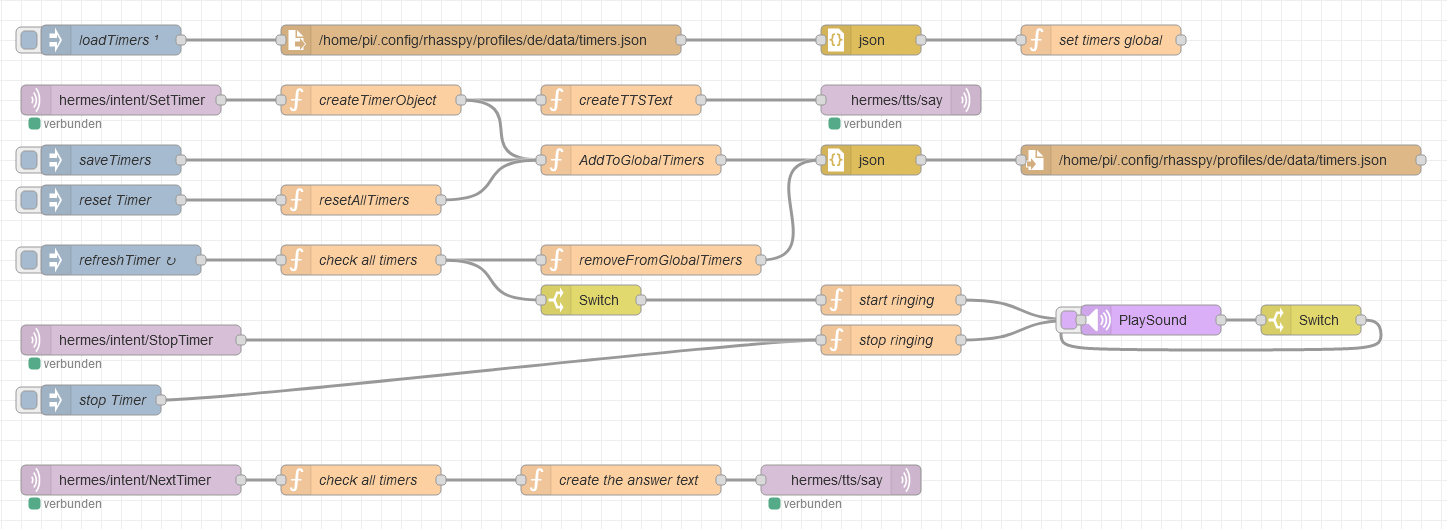
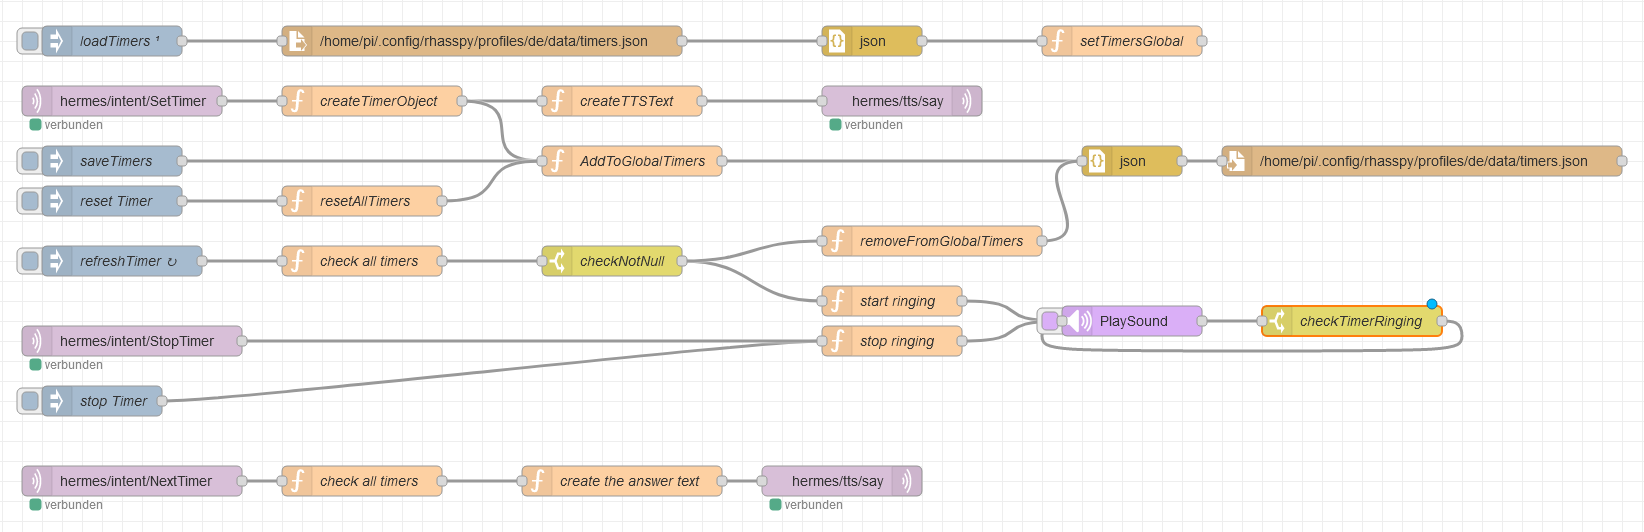
add timerJS description and timer.json

diff --git a/docs/pages/results/timer/timerJS.md b/docs/pages/results/timer/timerJS.md
@@ -1,7 +1,7 @@
 ---
 layout: default
-title: Timer with JS
-parent: Timer
+title: Alarm with JS
+parent: Alarm
 grand_parent: Results
 ---
 
@@ -14,4 +14,256 @@ grand_parent: Results
 {:toc}
 </details>
 
+# Timer with JS
+We created a timer feature in NodeRed with JS Functions. Here is a small overview:
+
 ![Timer with JavaScript](/assets/timerJSFull.png)
+
+## Requirements
+- `PlaySound` node from [node-red-contrib-play-sound](https://flows.nodered.org/node/node-red-contrib-play-sound)
+
+## Features
+- It can load and save timers from a file. So when the raspberry turns off and on, the alarms are will be loaded again.
+- Set a timer via voice you can set hours, minutes and seconds.
+- You can clear all timers.
+- Stop a timer via voice
+- And you can ask when the next timer is set answer via TTS.
+- 1 second refresh time.
+- TTS tells you what time the timer was set
+
+## Savefile
+The timers are saved in the profile folder: 
+```
+/home/pi/.config/rhasspy/profiles/de/data/timers.json
+```
+
+## Timer sound
+The timer sound is setup to this file:
+```
+/home/pi/.config/rhasspy/profiles/de/data/alarm.mp3
+```
+You can edit it or set another path. Important is that you use an absolut path to link the mp3 file. Otherwise NodeRed looks in its own workfolder.
+
+## Description
+I start to describe the flow from top to bottom. so we start with the loading the alarms from a file.
+
+### Load Timers
+![Load Timers](/assets/timerJSLoad.png)
+Loading all timers from a file will be triggered at the start of NodeRed. The injector `loadTimers` triggers the `file in` node.
+The `file in` node reads the whole file and hands it to the json node, which converts the JSON data format to a JavaScript(JS) object. 
+This JS object goes to the function `setTimersGlobal`. This function saves all timers in a global array in NodeRed, so we can access 
+them from everywhere.
+
+### Intent `SetTimer`
+![Set new timer](/assets/timerJSSet.png)
+When an `SetTimer` intent enters the mqtt-Server, the function `createTimerObject` will be triggered.
+This function extract the hour, minutes and seconds from the message and create a alarm object in this format:
+```
+{timerSet : timerSetAt, timerAt : timerAt, timerIn: timerIn}
+```
+Here is the sourcecode of this function:
+```javascript
+var seconds = 0;
+var minutes = 0;
+var hours = 0;
+
+for(var i = 0; i < msg.payload.slots.length; i++)
+{
+    if(msg.payload.slots[i].slotName === "seconds")
+        seconds = msg.payload.slots[i].value.value;
+    if(msg.payload.slots[i].slotName === "minutes")
+        minutes = msg.payload.slots[i].value.value;
+    if(msg.payload.slots[i].slotName === "hours")
+        hours = msg.payload.slots[i].value.value;
+}
+var timerSetAt = new Date();
+var timerAt = new Date(timerSetAt);
+timerAt.setHours(timerAt.getHours() + hours);
+timerAt.setMinutes(timerAt.getMinutes() + minutes);
+timerAt.setSeconds(timerAt.getSeconds() + seconds);
+
+var timerIn = new Date(0);
+timerIn.setHours(timerIn.getHours() + hours);
+timerIn.setMinutes(timerIn.getMinutes() + minutes);
+timerIn.setSeconds(timerIn.getSeconds() + seconds);
+
+msg.payload = {timerSet : timerSetAt, timerAt : timerAt, timerIn: timerIn};
+return msg;
+```
+
+This timer object goes to two functions, to `createTTSText` and to `AddToGlobalTimers`.
+`createTTSText` creates the message the TTS should say. here is the code:
+```javascript
+var timerIn = new Date(msg.payload.timerIn);
+var hours = timerIn.getHours() -1 ;
+var minutes = timerIn.getMinutes();
+var seconds = timerIn.getSeconds();
+
+var text = "Es wurde ein Teimer in ";
+if(hours !== 0)
+    text += hours + " Stunden ";
+if(minutes !== 0)
+    text += minutes + " Minuten ";
+if(seconds !== 0)
+    text += seconds + " Sekunden ";
+    
+text += "gesetzt.";
+msg.payload = {text: text, siteId: "default", id: "testID"};
+
+return msg;
+```
+After this function the TTS says the text in `msg.payload`.
+
+The function `AddToGlobalTimers` adds the new tomer to the global list of timers:
+```javascript
+var timers = global.get("timers");
+if(timers === undefined)
+    timers = [];
+
+if(msg.payload != null)
+{
+    timers.push(msg.payload);
+    global.set("timers", timers);
+}
+
+msg.payload = timers;
+return msg;
+```
+After this function the timer list will be saved with the node `file` to the file `/home/pi/.config/rhasspy/profiles/de/data/timers.json`.
+
+### Injection `resetTimers`
+![Reset all timers](/assets/timerJSReset.png)
+This part is for deleting all timers from the global list and from the savefile.
+After you click on `resetTimers` the functions `resetAllTimers` starts.
+This function sets the global `timers` array to an empty array:
+```javascript
+global.set("timers", []);
+msg.payload = null;
+return msg;
+```
+After this the timers will be saved in the savefile again.
+
+### Injection `refreshTimers`
+![Check timers](/assets/timerJSCheck.png)
+The injection `refreshTimers` triggers the function `checkAllTimers` every second.
+`checkAllTimers` goes through every timer in the global timer list and checks if it's time to ring.
+When a timer is out of time it will be add to the `readyTimers` array, which will be the output for the function. 
+If `readyTimers` is empty the function will return `null`. 
+
+Here is the Code:
+```javascript
+var dateNow = new Date();
+var readyTimers = [];
+
+for(var i = 0; i < msg.payload.timers.length; i++)
+{
+    var thenTime = new Date(msg.payload.timers[i].timerAt);
+    if(dateNow.getTime() >= thenTime.getTime())
+    {
+        readyTimers.push(msg.payload.timers[i]);
+    }
+}
+if(readyTimers.length > 0)
+    msg.payload = readyTimers;
+else
+    msg.payload = null;
+return msg;
+```
+
+After this function a switch checks if the message is null or not. If it's null it ignores the message, 
+and if not the message goes to two functions. The function `removeFromGlobalTimers` removes the timer from the 
+global array and saves the file.
+```javascript
+var timers = global.get("timers");
+if(timers === undefined)
+    timers = [];
+
+if(msg.payload != null)
+{
+    for(var i = 0; i < msg.payload.length; i++)
+    {
+        for( var j = 0; j < timers.length; j++) 
+        { 
+            if (timers[j].timerSet.toString() == msg.payload[i].timerSet.toString() && timers[j].timerAt.toString() == msg.payload[i].timerAt.toString())
+            {
+                timers.splice(j, 1); 
+            }
+        }
+    }
+    global.set("timers", timers);
+}
+
+msg.payload = timers;
+return msg;
+```
+
+And the message from `checkAllTimers` also goes to the function `startRinging`. In it the message will be set to `"start"` and the 
+global variable `timerRinging` is set to 1:
+```javascript
+global.set("timerRinging", 1);
+msg.payload = "start";
+return msg;
+```
+
+The `PlaySound` node will now play the file on this path: 
+```
+/home/pi/.config/rhasspy/profiles/de/data/alarm.mp3
+```
+When the file ends the switch `checkTimerRinging` checks if the global variable `timerRinging` is `0`.
+If not the `PlaySound` node starts playing again.
+
+### Intent `StopTimer`
+![Stop an timer](/assets/timerJSStop.png)
+The Intent `StopTimerClock` stops the ringing of an alarm. It runs the function `stopRinging`. 
+This sets the global variable `timerRinging` to `0` and sets the payload to `"stop"`.
+This message goes to the `PlaySound` node, it should stop playing the file. 
+
+Here is the code:
+```javascript
+global.set("timerRinging", 0);
+msg.payload = "stop";
+return msg;
+```
+
+### Intent `NextTimer`
+![Reset all alarms](/assets/timerJSNext.png)
+The Intent `NextTimer` picks the next due timer and creates a text the TTS should say to inform the user when the next timer rings.
+
+The Intent first triggers the function `checkAllTimers`. This function goes through all timers listed in the global `timers` variable
+and put the next due timer in `msg.payload`.
+```javascript
+var timers = global.get("timers");
+var nextDate = new Date(new Date().getFullYear()+2000, 0, 0, 0, 0, 0);
+
+for(var i = 0; i < timers.length; i++)
+{
+    var thenTime = new Date(timers[i].timerAt);
+    if(nextDate.getTime() > thenTime.getTime())
+    {
+        nextDate = new Date(thenTime);
+    }
+}
+msg.payload = nextDate;
+return msg;
+```
+
+The function `createAnswerText` is the next function in the flow. It converts the datetime from the alarm in a sentence a human can understand.
+```javascript
+var currentDate = new Date();
+
+var timerDate = new Date(msg.payload);
+
+var fullSecondsRemain = (timerDate.getTime() - currentDate.getTime())/1000;
+var minutesRemain = Math.floor(fullSecondsRemain/60);
+var secondsRemain = Math.floor(fullSecondsRemain%60);
+
+var text = "Der nächste Teimer geht in " + minutesRemain + " Minuten und " + secondsRemain + " Sekunden";
+
+msg.payload = {text: text, siteId: "default", id: "testID"};
+
+return msg;
+```
+The output of this function goes directly to the Mqtt TTS node.
+
+## Download the Flow
+- [Download](https://github.com/th-koeln-intia/ip-sprachassistent-team4/blob/master/flows/timer.json)
